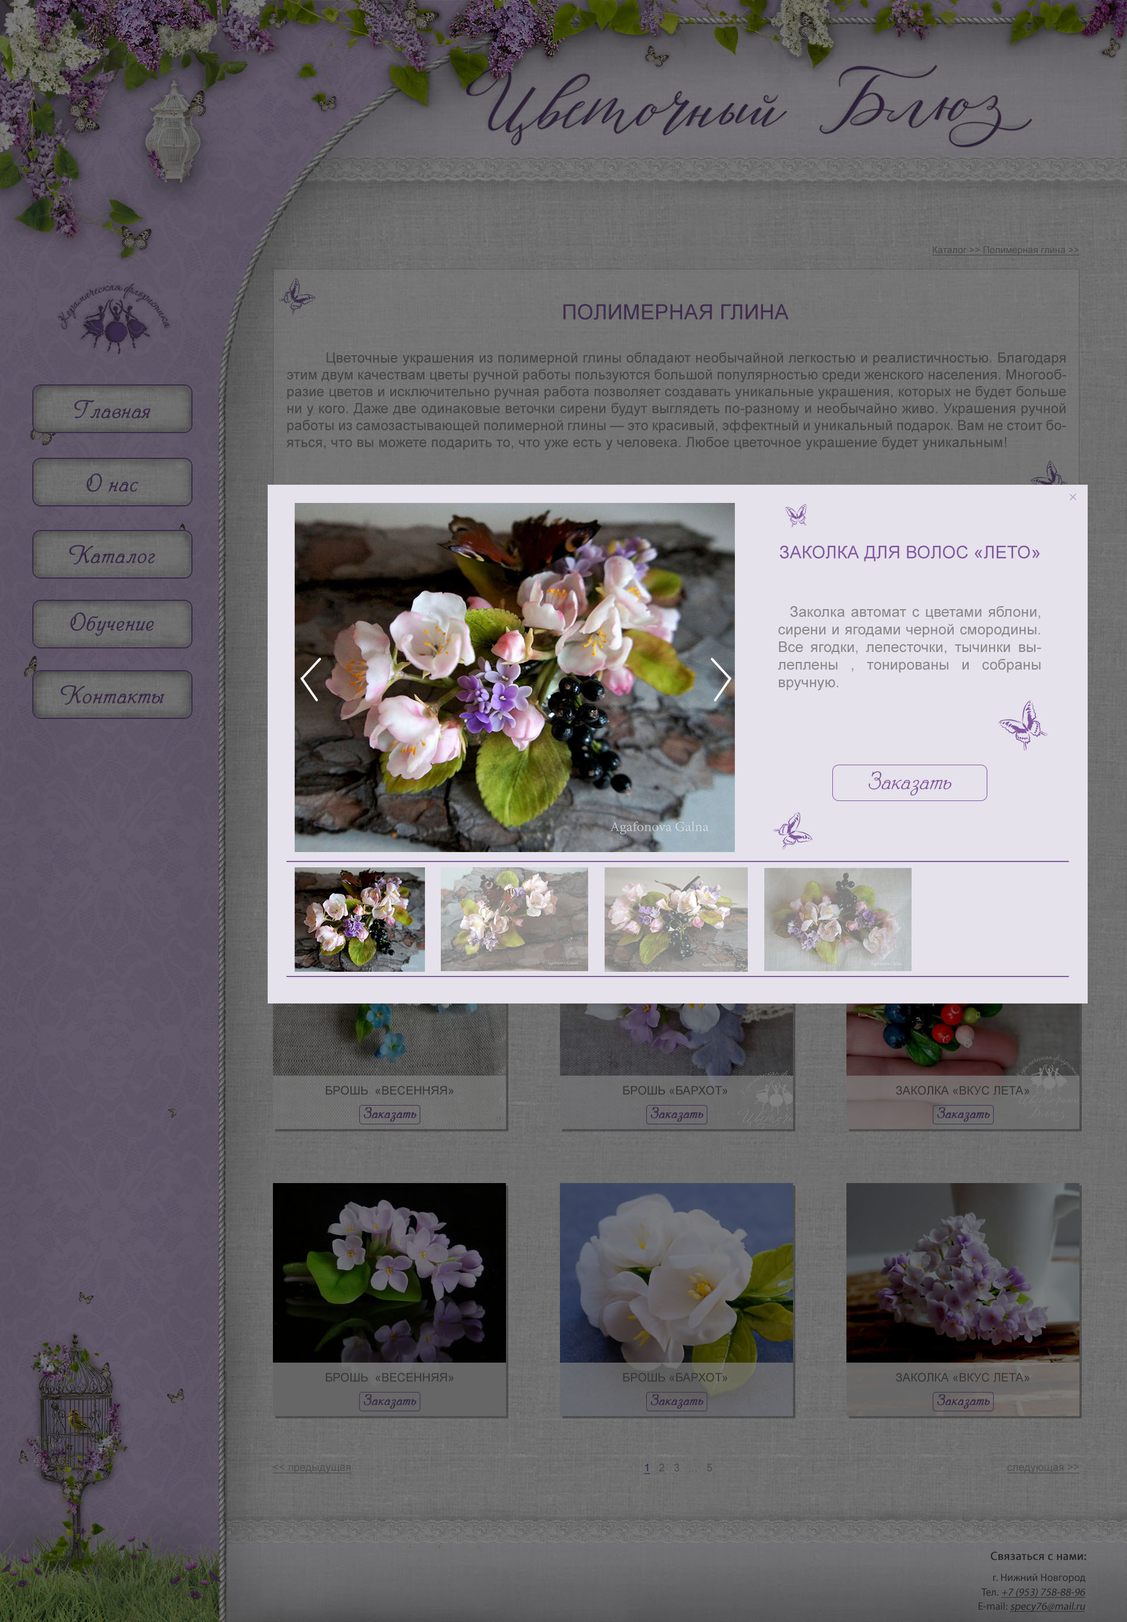
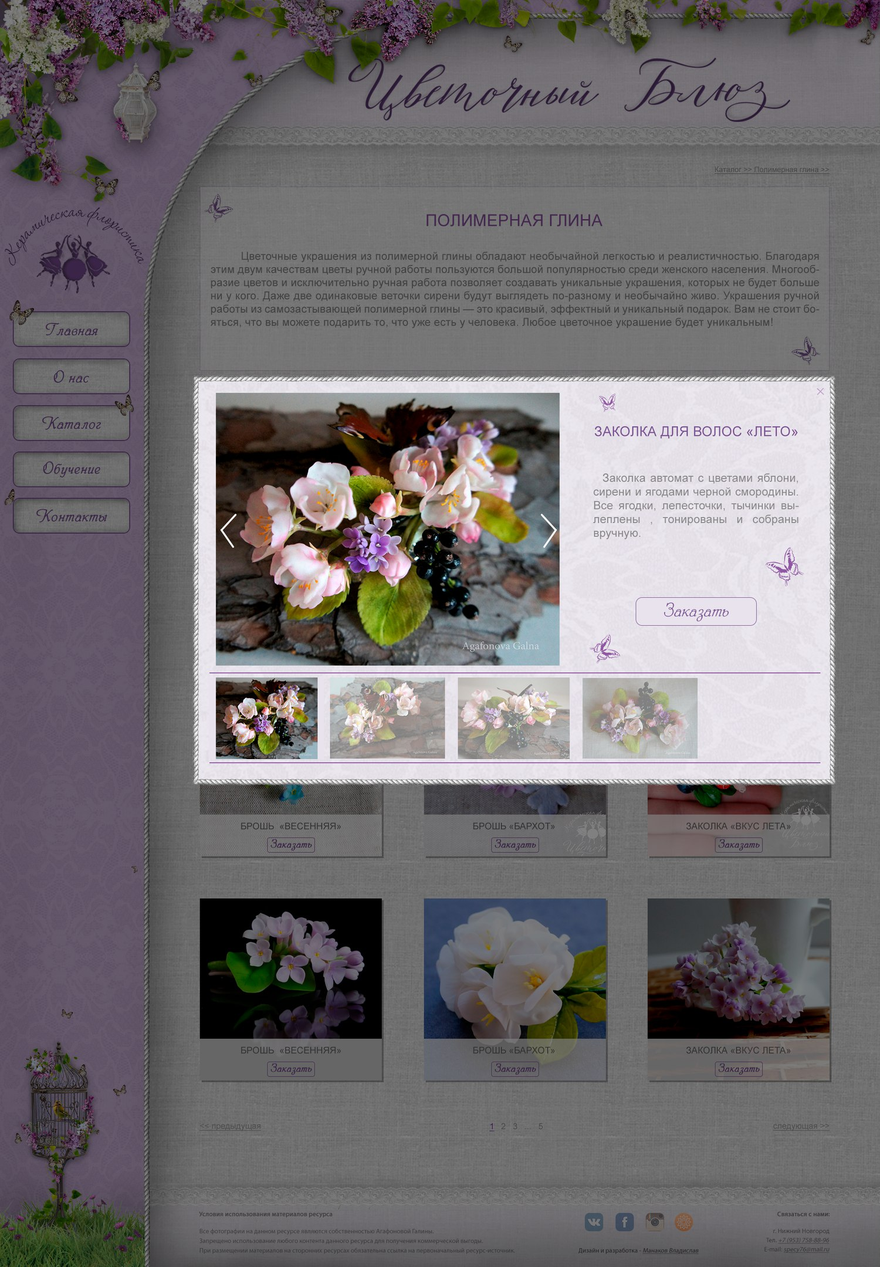
no message

diff --git a/public/index.html b/public/index.html
@@ -1,14 +1,4 @@
-<!DOCTYPE html><html lang="ru"><head><meta charset="utf-8"><title>Главная</title><meta name="viewport" content="width=device-width,initial-scale=1"><link rel="stylesheet" href="/styles/index.css"><link rel="stylesheet" href="/styles/catalog.css"></head><body><header><div class="header-burgerbutton"><img src="/images/burger-button.png"></div><div class="clear"></div></header><nav id="nav"><img class="navbar-butterfly" src="/images/navbar/butterfly.png"> <img class="navbar-butterfly2" src="/images/navbar/butterfly2.png"> <img class="navbar-butterfly3" src="/images/navbar/butterfly3.png"><div class="navbar-button"><a href="/"><img src="/images/navbar/button-main.png"></a></div><div class="navbar-button"><a href="#"><img src="/images/navbar/button-about.png"></a></div><div class="navbar-button"><a href="/catalog"><img src="/images/navbar/button-catalog.png"></a></div><div class="navbar-button"><a href="#"><img src="/images/navbar/button-mk.png"></a></div><div class="navbar-button"><a href="#"><img src="/images/navbar/button-contacts.png"></a></div></nav><main id="main"></main><div class="clear"></div><footer id="footer"><div class="footer-content"><div class="footer-content-regulations"><p class="footer-title">Условия использования материалов ресурса:</p><p class="footer-text">Все фотографии на данном ресурсе являются собственностью Агафоновой Галины.</p><p class="footer-text">Запрещено использование любого контента данного ресурса для получения коммерческой выгоды.</p><p class="footer-text">При размещении материалов на сторонних ресурсах обязательна ссылка на первоначальный ресурс-источник.</p></div><!-- <div class="footer-content-icons">
-                <img src="/images/vk.png">
-                <img src="/images/fb.png">
-                <img src="/images/in.png">
-                <img src="/images/ym.png">
-            </div> --><!-- <div class="footer-content-contacts">
-                <p class="footer-title">Cвязаться с нами: </p>
-                <p class="footer-text">г.Нижний Новгород</p>
-                <p class="footer-text">тел: <u>+7(953)1833296</u></p>
-                <p class="footer-text">e-mail: <u>specy@rambler.ru</u></p>
-            </div> --></div></footer><script src="/js/build.js"></script><script src="/js/jquery.min.js"></script><script src="/js/jquery.bxslider.js"></script><script>// let link = /([http://localhost:8090/catalog/polimer/])/;
+<!DOCTYPE html><html lang="ru"><head><meta charset="utf-8"><title>Главная</title><meta name="viewport" content="width=device-width,initial-scale=1"><link rel="stylesheet" href="/styles/index.css"><link rel="stylesheet" href="/styles/catalog.css"></head><body><header><div class="header-burgerbutton"><img src="/images/burger-button.png"></div><div class="clear"></div></header><nav id="nav"><img class="navbar-butterfly" src="/images/navbar/butterfly.png"> <img class="navbar-butterfly2" src="/images/navbar/butterfly2.png"> <img class="navbar-butterfly3" src="/images/navbar/butterfly3.png"><div class="navbar-button"><a href="/"><img src="/images/navbar/button-main.png"></a></div><div class="navbar-button"><a href="#"><img src="/images/navbar/button-about.png"></a></div><div class="navbar-button"><a href="/catalog"><img src="/images/navbar/button-catalog.png"></a></div><div class="navbar-button"><a href="#"><img src="/images/navbar/button-mk.png"></a></div><div class="navbar-button"><a href="#"><img src="/images/navbar/button-contacts.png"></a></div></nav><main id="main"></main><div class="clear"></div><footer id="footer"><div class="footer-content"><div class="footer-content-regulations"><p class="footer-title">Условия использования материалов ресурса:</p><p class="footer-text">Все фотографии на данном ресурсе являются собственностью Агафоновой Галины.</p><p class="footer-text">Запрещено использование любого контента данного ресурса для получения коммерческой выгоды.</p><p class="footer-text">При размещении материалов на сторонних ресурсах обязательна ссылка на первоначальный ресурс-источник.</p></div><div class="footer-content-icons"><img class="footer-content-icons-img" src="/images/vk.png"> <img class="footer-content-icons-img" src="/images/fb.png"> <img class="footer-content-icons-img" src="/images/in.png"> <img class="footer-content-icons-img" src="/images/ym.png"></div><div class="footer-content-developer"><p class="footer-title">Дизайн и разработка:<a href="vk.com/vlad.vlad.vlad">Манаков Владислав</a></p></div><div class="footer-content-contacts"><p class="footer-title">Cвязаться с нами:</p><p class="footer-text">г.Нижний Новгород</p><p class="footer-text">тел: <u>+7(953)1833296</u></p><p class="footer-text">e-mail: <u>specy@rambler.ru</u></p></div></div></footer><script src="/js/build.js"></script><script src="/js/jquery.min.js"></script><script src="/js/jquery.bxslider.js"></script><script>// let link = /([http://localhost:8090/catalog/polimer/])/;
     // let test = document.location.href
 
     // if (link==test)
@@ -41,10 +31,20 @@ $(document).ready(function(){
   })  
 });
 
-let testLink=document.location.pathname
-let pendantsLink="/catalog/polimer/pendants"
+// console.log(location.pathname);
+// let testLink=location.pathname;
+// let pendantsLink="/catalog/polimer";
 
-if (testLink==pendantsLink) {
-    document.getElementById("all").style.display="none";
+// if (testLink==pendantsLink) {
+//     document.getElementById("all").style.display="none"
+//     console.log("ok")
+// }
+let testLink=location.pathname;
+let pendantsLink="/catalog/polimer";
+
+if(false !== testLink.indexOf(pendantsLink)) {
     console.log("ok")
+    document.getElementById("all").style.display="none"
+} else {
+    console.log("no")
 }</script></body></html>

diff --git a/public/js/build.js b/public/js/build.js
@@ -27912,7 +27912,7 @@
 	    "id": "1-1",
 	    "name": "ЗАКОЛКА ДЛЯ ВОЛОС 'ЛЕТО'",
 	    "cost": "1500 руб.",
-	    "text": "Заколка автомат с цветами яблони, сирени и ягодами черной сморо",
+	    "text": "Заколка автомат с цветами яблони, сирени и ягодами черной смородины",
 	    "imagePreview": "/images/catalog/pendants/1-1.jpg",
 	    "image1": "/images/catalog/pendants/1.jpg",
 	    "image2": "/images/catalog/pendants/1.jpg",
@@ -28213,6 +28213,7 @@
 	        };
 	    },
 	    render: function render() {
+	        var linkProduct = location.href;
 	        function order(e) {
 	            e.preventDefault();
 	            document.getElementById("order").style = "display:table";
@@ -28257,17 +28258,9 @@
 	                            { className: "product-info-text" },
 	                            product.text
 	                        ),
-	                        _react2["default"].createElement("img", { className: "butterfly", id: "butterfly1", src: "/./images/catalog/butterfly1.png" }),
-	                        _react2["default"].createElement("img", { className: "butterfly", id: "butterfly2", src: "/./images/catalog/butterfly2.png" }),
-	                        _react2["default"].createElement("img", { className: "butterfly", id: "butterfly3", src: "/./images/catalog/butterfly3.png" }),
-	                        _react2["default"].createElement(
-	                            "button",
-	                            { onClick: order },
-	                            "Заказать"
-	                        ),
 	                        _react2["default"].createElement(
 	                            "div",
-	                            { id: "product-info-button" },
+	                            { id: "product-info-button", onClick: order },
 	                            "Заказать"
 	                        )
 	                    ),
@@ -28309,12 +28302,27 @@
 	                    "div",
 	                    { id: "order" },
 	                    "Заказать товар",
-	                    _react2["default"].createElement("div", null),
+	                    _react2["default"].createElement(
+	                        "div",
+	                        { className: "order-image" },
+	                        _react2["default"].createElement("img", { src: product.imagePreview })
+	                    ),
 	                    _react2["default"].createElement(
 	                        "form",
-	                        null,
-	                        _react2["default"].createElement("input", { type: "text", value: product.text }),
-	                        _react2["default"].createElement("input", { type: "text" }),
+	                        { className: "order-form" },
+	                        _react2["default"].createElement("input", { className: "order-form-name", type: "text", value: product.text }),
+	                        _react2["default"].createElement(
+	                            "div",
+	                            { className: "order-form-hide" },
+	                            _react2["default"].createElement(
+	                                "label",
+	                                null,
+	                                "Ссылкa:"
+	                            ),
+	                            " ",
+	                            _react2["default"].createElement("input", { type: "text", value: linkProduct })
+	                        ),
+	                        _react2["default"].createElement("input", { className: "order-form-input", type: "text" }),
 	                        _react2["default"].createElement("input", { type: "text" }),
 	                        _react2["default"].createElement("input", { type: "text" }),
 	                        _react2["default"].createElement(

diff --git a/public/styles/catalog.css b/public/styles/catalog.css
@@ -23,13 +23,14 @@
 .product-preview-name{color:#6d6d6d;display:block;margin-top:2%}.product-preview-cost{color:#6d6d6d;display:block;margin-top:2%}
 .product-preview-button-img{cursor:pointer;margin-top:2%;margin-left:-15%;position:absolute;color:#705290;font-family:PhillippScript;font-size:1.2vw;display:inline;width:25%;border:2px solid #705290;border-radius:5px 5px;padding-top:.7%}
 .product-preview-instock{width:10%;margin-left:32%;position:absolute}#b-popup{left:0;width:100%;min-height:100%;background-color:rgba(0,0,0,0.5);overflow:hidden;position:fixed;top:0;z-index:3}
-#b-popup .b-popup-content{background-color:#e6e2eb;margin:4% auto 0 auto;width:60%;height:40%;border-radius:1%}
-#b-popup-close-button{text-align:right;padding:.5%;margin-bottom:1%}#product-info{margin-top:4.5%;width:37%;outline:2px solid red;float:right}
-#product-info-button{width:30%;border:2px solid blue;border-radius:10%;padding:1%}
-.product-info-name{font-family:Arial,Helvetica,sans-serif;color:#705290;font-size:1.2vw}
-.product-info-text{font-family:Arial,Helvetica,sans-serif;color:#888;font-size:1vw}
-.butterfly{display:none;position:absolute}#butterfly1{top:19.5%;right:35%}#product-carousel{margin-left:3%;width:60%}
-#order{display:none}.carousel .control-arrow,.carousel.carousel-slider .control-arrow{-webkit-transition:all .25s ease-in;-moz-transition:all .25s ease-in;-ms-transition:all .25s ease-in;-o-transition:all .25s ease-in;transition:all .25s ease-in;opacity:.4;filter:alpha(opacity=40);position:absolute;z-index:2;top:20px;background:0;border:0;font-size:32px;cursor:pointer}
+#b-popup .b-popup-content{background-image:url("../images/catalog/popup-fon.jpg");background-size:cover;margin:4% auto 0 auto;width:60%;height:40%;border-radius:1%}
+#b-popup-close-button{text-align:right;padding:.5%;margin-bottom:1%}#product-info{text-align:center;margin-top:4.5%;width:37%;outline:2px solid red;float:right}
+#product-info-button{width:50%;border:2px solid #705290;border-radius:5px 5px;padding-top:1%;border-radius:10%;color:#705290;font-family:PhillippScript;font-size:1.3vw}
+.product-info-name{outline:2px solid blue;font-family:Arial,Helvetica,sans-serif;color:#705290;font-size:1.3vw}
+.product-info-text{padding:0 2%;outline:2px solid blue;font-family:Arial,Helvetica,sans-serif;color:#888;text-align:justify;text-indent:5%;font-size:1.1vw}
+#product-carousel{margin-left:3%;width:60%}#order{display:none}.order-image{outline:2px solid black;width:20%}
+.order-image img{width:100%}.order-form{outline:2px solid red}.order-form-hide{display:none}
+.carousel .control-arrow,.carousel.carousel-slider .control-arrow{-webkit-transition:all .25s ease-in;-moz-transition:all .25s ease-in;-ms-transition:all .25s ease-in;-o-transition:all .25s ease-in;transition:all .25s ease-in;opacity:.4;filter:alpha(opacity=40);position:absolute;z-index:2;top:20px;background:0;border:0;font-size:32px;cursor:pointer}
 .carousel .control-arrow:hover{opacity:1;filter:alpha(opacity=100)}.carousel .control-arrow:before,.carousel.carousel-slider .control-arrow:before{margin:0 5px;display:inline-block;border-top:15px solid transparent;border-bottom:15px solid transparent;content:''}
 .carousel .control-disabled.control-arrow{opacity:1;cursor:inherit}.carousel .control-prev.control-arrow{left:0}
 .carousel .control-prev.control-arrow:before{border-right:15px solid #fff}.carousel .control-next.control-arrow{right:0}

diff --git a/src/js/product-pendant.jsx b/src/js/product-pendant.jsx
@@ -14,6 +14,7 @@ let ProductPendant = React.createClass({
         };
     },
     render () {
+        let linkProduct = location.href
         function order(e) {
             e.preventDefault();
             document.getElementById("order").style="display:table";
@@ -34,16 +35,12 @@ let ProductPendant = React.createClass({
                         <Link to="/catalog/polimer/pendants"><img src="/./images/catalog/close.png" /></Link>
                     </div>  
                     <div id="product">
-                    <div id="product-info">   
-                        
-                        <p className="product-info-name">{product.name}</p>
-                        <p className="product-info-text">{product.text}</p>
-                        <img className="butterfly" id="butterfly1" src="/./images/catalog/butterfly1.png" /> 
-                        <img className="butterfly" id="butterfly2" src="/./images/catalog/butterfly2.png" />  
-                        <img className="butterfly" id="butterfly3" src="/./images/catalog/butterfly3.png" />   
-                        <button onClick={order}>Заказать</button>
-                        <div id="product-info-button">Заказать</div>
-                    </div>
+                        <div id="product-info">   
+                            <p className="product-info-name">{product.name}</p>
+                            <p className="product-info-text">{product.text}</p>
+                            <div id="product-info-button" onClick={order}>Заказать</div>
+                        </div>
+
                     <div id="product-carousel">
                         <Carousel>
                             <div><img src={product.image1} /></div>
@@ -53,14 +50,19 @@ let ProductPendant = React.createClass({
                             <div><img src={product.image5} /></div>
                         </Carousel>
                     </div>
+                    
                     </div>
                     <div id="order">
                         Заказать товар
-                        <div>
+                        <div className="order-image">
+                            <img src={product.imagePreview}/>
                         </div>
-                        <form>
-                            <input type="text" value={product.text}/>
-                            <input type="text" />
+                        <form className="order-form">
+                            <input className="order-form-name" type="text" value={product.text}/>
+                            <div className="order-form-hide">
+                                <label >Ссылкa:</label> <input type="text" value={linkProduct}/>
+                            </div>
+                            <input className="order-form-input" type="text" />
                             <input type="text" />
                             <input type="text" />
                             <button>Отправить</button>

diff --git a/src/index.html b/src/index.html
@@ -48,18 +48,21 @@
                 </p>
 
             </div>
-            <!-- <div class="footer-content-icons">
-                <img src="/images/vk.png">
-                <img src="/images/fb.png">
-                <img src="/images/in.png">
-                <img src="/images/ym.png">
-            </div> -->
-            <!-- <div class="footer-content-contacts">
+            <div class="footer-content-icons">
+                <img class="footer-content-icons-img" src="/images/vk.png">
+                <img class="footer-content-icons-img" src="/images/fb.png">
+                <img class="footer-content-icons-img" src="/images/in.png">
+                <img class="footer-content-icons-img" src="/images/ym.png">
+            </div>
+            <div class="footer-content-developer">
+                <p class="footer-title">Дизайн и разработка:<a href="vk.com/vlad.vlad.vlad">Манаков Владислав</a></p>
+            </div>
+            <div class="footer-content-contacts">
                 <p class="footer-title">Cвязаться с нами: </p>
                 <p class="footer-text">г.Нижний Новгород</p>
                 <p class="footer-text">тел: <u>+7(953)1833296</u></p>
                 <p class="footer-text">e-mail: <u>specy@rambler.ru</u></p>
-            </div> -->
+            </div>
             
 
         </div>
@@ -102,14 +105,23 @@ $(document).ready(function(){
   })  
 });
 
-let testLink=document.location.pathname
-let pendantsLink="/catalog/polimer/pendants"
+// console.log(location.pathname);
+// let testLink=location.pathname;
+// let pendantsLink="/catalog/polimer";
 
-if (testLink==pendantsLink) {
-    document.getElementById("all").style.display="none";
+// if (testLink==pendantsLink) {
+//     document.getElementById("all").style.display="none"
+//     console.log("ok")
+// }
+let testLink=location.pathname;
+let pendantsLink="/catalog/polimer";
+
+if(false !== testLink.indexOf(pendantsLink)) {
     console.log("ok")
+    document.getElementById("all").style.display="none"
+} else {
+    console.log("no")
 }
-
 
 
 </script>

diff --git a/public/styles/index.css b/public/styles/index.css
@@ -22,9 +22,12 @@ nav{float:left;margin-top:34%;margin-left:1.5%;outline:2px solid green;width:14%
 .news-details-marker{position:relative;display:inline;width:4%}.clear{clear:both}
 .button .button-more{margin-top:0}footer{margin-top:13%;outline:2px solid magenta}
 .footer-content-regulations{display:inline-block;outline:2px solid blue;margin-left:22%}
-.footer-content-icons{display:inline-block;outline:2px solid orange}.footer-content{outline:2px solid black;font-family:Arial,Helvetica,sans-serif;color:#605c65}
+.footer-content-icons{position:absolute;display:inline-block;outline:2px solid orange;margin-left:6%;margin-top:1%}
+.footer-content-icons-img{width:13%;margin-right:5%}.footer-content-developer{outline:2px solid red;display:inline-block}
+.footer-content{outline:2px solid black;font-family:Arial,Helvetica,sans-serif;color:#605c65}
 .footer-title{font-size:.8vw;font-weight:bolder;margin:0;margin-bottom:3%}.footer-text{font-size:.7vw;margin:0;margin-bottom:1%}
-.footer-content-contacts{display:inline-block;outline:2px solid green}@media(max-width:640px){body{background-image:url("../images/fon640.jpg");background-repeat:no-repeat;background-size:cover}
+.footer-content-contacts{position:absolute;margin-left:10%;display:inline-block;outline:2px solid green}
+@media(max-width:640px){body{background-image:url("../images/fon640.jpg");background-repeat:no-repeat;background-size:cover}
 nav{display:none}.stock{background-image:url("../images/fon2-640.png");margin-top:-8%;padding-top:21%}
 .stock-title{font-size:4vw;font-weight:700}.stock-images{display:none}.stock-images-640{display:block}
 .img{display:none}.news{display:none}footer{display:none}main{width:100%;text-align:center;box-sizing:border-box;margin:25% 0 0 0;padding:0 8% 0 8%}

diff --git a/src/styles/catalog/1.catalog.css b/src/styles/catalog/1.catalog.css
@@ -266,7 +266,7 @@
 
 
 
-
+/*карточка товара*/
 #b-popup{
     left:0;
     width:100%;
@@ -278,7 +278,9 @@
     z-index:3;
 }
 #b-popup .b-popup-content{
-    background-color: #e6e2eb;
+    /*background-color: #e6e2eb;*/
+    background-image: url("../images/catalog/popup-fon.jpg");
+    background-size: cover;
     margin:4% auto 0 auto;
     width:60%;
     height: 40%;
@@ -290,37 +292,39 @@
   margin-bottom:1%
 }
 #product-info{
+  text-align: center;
   margin-top:4.5%; 
   width: 37%;
   outline:2px solid red;
   float:right;
 }
 #product-info-button{
-  width:30%;
-  border:2px solid blue;
+  width:50%;
+  border:2px solid #705290;
+  border-radius:5px 5px;
+  padding-top:1%;
   border-radius:10%;
-  padding:1%;
+  color:#705290;
+  font-family: PhillippScript;
+  font-size: 1.3vw;
 }
 
 .product-info-name {
+  outline:2px solid blue;
   font-family: Arial, Helvetica, sans-serif;
   color:#705290;
-  font-size: 1.2vw; 
+  font-size: 1.3vw; 
 }
 .product-info-text {
+  padding: 0 2%;
+  outline:2px solid blue;
   font-family: Arial, Helvetica, sans-serif;
   color:#888888;
-  font-size: 1vw; 
+  text-align: justify;
+  text-indent: 5%;
+  font-size: 1.1vw; 
 }
 
-.butterfly {
-  display:none;
-  position: absolute;
-}
-#butterfly1 {
-  top:19.5%;
-  right:35%;
-}
 
 
 
@@ -331,4 +335,18 @@
 }
 #order {
   display: none;
+}
+
+.order-image {
+  outline: 2px solid black;
+  width: 20%;
+}
+.order-image img {
+  width: 100%
+}
+.order-form {
+  outline: 2px solid red;
+}
+.order-form-hide {
+  display:none;
 }

diff --git a/src/styles/index/2.index.css b/src/styles/index/2.index.css
@@ -197,8 +197,21 @@ footer{
   margin-left: 22%;
 }
 .footer-content-icons{
+  position: absolute;
   display: inline-block;
   outline:2px solid orange;
+  /*width: 20%;*/
+  margin-left: 6%;
+  margin-top:1%; 
+}
+.footer-content-icons-img {
+  width: 13%;
+  
+  margin-right: 5%;
+}
+.footer-content-developer{
+  outline: 2px solid red;
+  display: inline-block;
 }
 .footer-content{
   outline:2px solid black;
@@ -218,6 +231,8 @@ footer{
 }
 
 .footer-content-contacts {
+  position: absolute;
+  margin-left: 10%;
   display: inline-block;
   outline:2px solid green;
 }

diff --git a/src/js/Data/data-pendants.js b/src/js/Data/data-pendants.js
@@ -2,7 +2,7 @@ let pendants = [{
     "id":"1-1",
     "name":"ЗАКОЛКА ДЛЯ ВОЛОС 'ЛЕТО'",
     "cost":"1500 руб.",
-    "text":"Заколка автомат с цветами яблони, сирени и ягодами черной сморо",
+    "text":"Заколка автомат с цветами яблони, сирени и ягодами черной смородины",
     "imagePreview":"/images/catalog/pendants/1-1.jpg",
     "image1":"/images/catalog/pendants/1.jpg",
     "image2":"/images/catalog/pendants/1.jpg",
